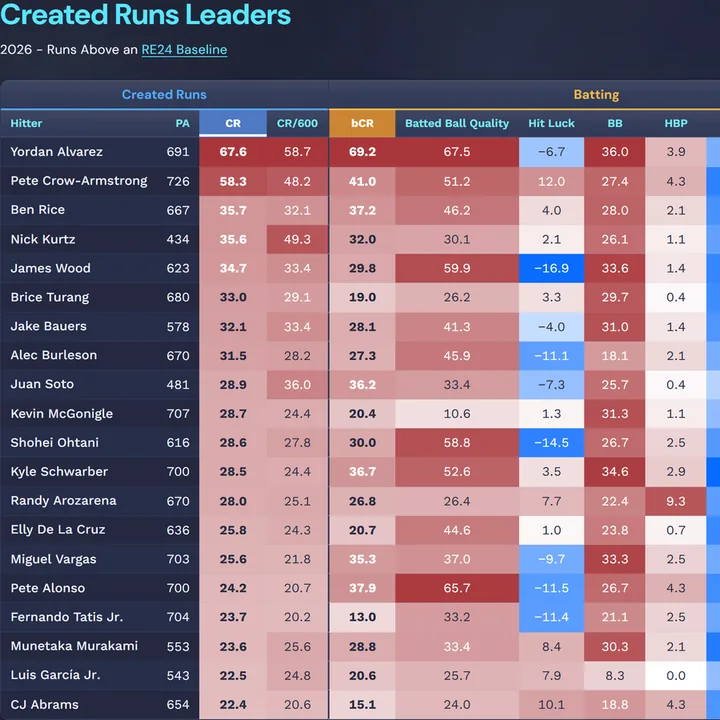
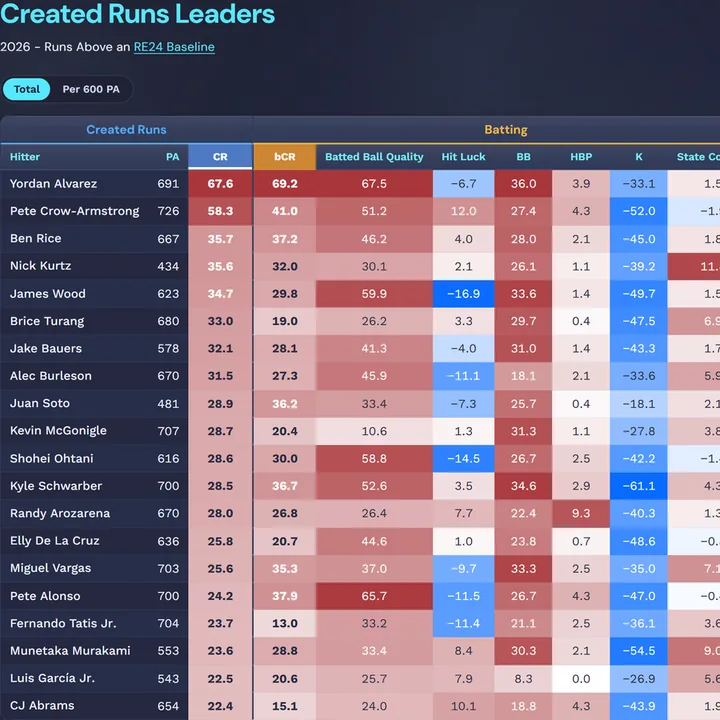
Created Runs: Total / Per 600 PA switch in place of the CR/600 column
Mirrors the leaderboard's version 16. CR/600 leaves data.json and the
table (Created Runs now spans Hitter, PA, CR); a segmented switch above
the table shows every stat after PA as a season total or per 600 PA,
with each view's heat scale computed in the page over all its hitters,
so data.json no longer carries one. The sort carries over a switch, and
the caption says "per 600 PA". Glossary: CR/600 out, the switch
explained. The meta description's "state change" is now "batted ball
quality". data.json?v=3, app.js?v=4, tile ?v=5.

diff --git a/created-runs/index.html b/created-runs/index.html
@@ -5,7 +5,7 @@
 <meta name="viewport" content="width=device-width,initial-scale=1,viewport-fit=cover">
 <meta name="color-scheme" content="dark">
 <title>Created Runs Leaders</title>
-<meta name="description" content="2026 hitters ranked by created runs above an RE24 baseline, at the plate and on the bases: state change on balls in play, hit luck, walks, hit-by-pitches and strikeouts; home-to-first, baserunning, steals, caught stealing and pickoffs.">
+<meta name="description" content="2026 hitters ranked by created runs above an RE24 baseline, at the plate and on the bases: batted ball quality, hit luck, walks, hit-by-pitches and strikeouts; home-to-first, baserunning, steals, caught stealing and pickoffs.">
 <link rel="preconnect" href="https://fonts.googleapis.com">
 <link rel="preconnect" href="https://fonts.gstatic.com" crossorigin>
 <link rel="stylesheet" href="https://fonts.googleapis.com/css2?family=DM+Sans:opsz,wght@9..40,400;9..40,500;9..40,600;9..40,700;9..40,900&family=Work+Sans:wght@400;500;600;700&display=swap">
@@ -34,6 +34,15 @@
   display:flex; flex-direction:column; gap:28px}
 @media (min-width:720px){.page{padding-left:max(24px, env(safe-area-inset-left, 0px)); padding-right:max(24px, env(safe-area-inset-right, 0px))}}
 .plpd-page-header__title{text-wrap:balance}
+
+/* the Total / Per 600 PA switch: a segmented pill, the pressed side filled brand-cyan */
+.toolbar{display:flex; margin-bottom:-12px}
+.seg{display:inline-flex; gap:2px; padding:3px; border-radius:999px; border:1px solid var(--dt-wrap-border); background:var(--dt-scroll-bg)}
+.seg button{all:unset; box-sizing:border-box; cursor:pointer; padding:6px 14px; border-radius:999px;
+  font-family:var(--font-text); font-size:14px; font-weight:600; line-height:1.2; color:#cbd7fd}
+.seg button:hover{color:#f0f1f5}
+.seg button[aria-pressed="true"]{background:#55e8ff; color:#13152a}
+.seg button:focus-visible{outline:2px solid #55e8ff; outline-offset:2px}
 
 /* PlDataTableWrap (raised): scrolls both ways; its height is set in script to the header plus 20 rows */
 .table-wrap{box-sizing:border-box; max-width:100%; overflow:auto; overscroll-behavior:contain;
@@ -115,12 +124,14 @@
     <p class="plpd-page-header__meta"><span class="season">2026</span> - Runs Above an <a href="https://library.fangraphs.com/misc/re24/" target="_blank" rel="noopener">RE24 Baseline</a></p>
   </header>
 
+  <div class="toolbar"><div class="seg" id="mode" role="group" aria-label="Show values as"><button type="button" data-mode="total" aria-pressed="true">Total</button><button type="button" data-mode="per600" aria-pressed="false">Per 600 PA</button></div></div>
+
   <div class="table-wrap" id="wrap" role="region" aria-label="Hitters, sortable by any stat" tabindex="0">
     <table>
       <caption id="caption">Hitters ranked by CR, 2026</caption>
       <thead>
         <tr>
-          <th class="group g-created" colspan="4" scope="colgroup">Created Runs</th>
+          <th class="group g-created" colspan="3" scope="colgroup">Created Runs</th>
           <th class="group g-batting div" colspan="7" scope="colgroup">Batting</th>
           <th class="group g-running div" colspan="6" scope="colgroup">Running</th>
         </tr>
@@ -133,13 +144,12 @@
 
   <section class="glossary" aria-labelledby="gl-title">
     <h2 id="gl-title">Reading the table</h2>
-    <p>Every number is created runs above an RE24 baseline built from the <span class="season">2026</span> season. The table covers the <span id="gl-count">205</span> hitters with at least <span class="min-pa">400</span> PA. Pick any column heading to rank them by it, highest first; pick it again for lowest first. It shows 20 hitters at a time, so scroll it for the rest. Values shade from white at zero toward red at the highest value among these hitters and blue at the lowest.</p>
+    <p>Every number is created runs above an RE24 baseline built from the <span class="season">2026</span> season. The table covers the <span id="gl-count">205</span> hitters with at least <span class="min-pa">400</span> PA. Pick any column heading to rank them by it, highest first; pick it again for lowest first. It shows 20 hitters at a time, so scroll it for the rest. The Total / Per 600 PA switch above the table shows every column after PA as a season total or scaled to 600 plate appearances. Values shade from white at zero toward red at the highest value among these hitters and blue at the lowest.</p>
     <div class="gl-groups">
       <div class="gl-group g-created">
         <h3>Created Runs</h3>
         <dl>
           <div><dt>CR</dt><dd>Total created runs, batting plus running.</dd></div>
-          <div><dt>CR/600</dt><dd>CR scaled to 600 plate appearances.</dd></div>
         </dl>
       </div>
       <div class="gl-group g-batting">
@@ -166,6 +176,6 @@
     </div>
   </section>
 </div>
-<script type="module" src="app.js?v=3"></script>
+<script type="module" src="app.js?v=4"></script>
 </body>
 </html>

diff --git a/created-runs/app.js b/created-runs/app.js
@@ -8,7 +8,6 @@ const VISIBLE_ROWS = 20; // the table is this many rows tall and scrolls for the
 const COLS = [
   { key: "pa", label: "PA", group: "created", heat: false, digits: 0 },
   { key: "cr", label: "CR", group: "created", hl: true },
-  { key: "cr600", label: "CR/600", group: "created" },
   { key: "bcr", label: "bCR", group: "batting", hl: true, divider: true },
   { key: "state", label: "Batted Ball Quality", group: "batting" },
   { key: "luck", label: "Hit Luck", group: "batting" },
@@ -56,11 +55,15 @@ const fmt = (v, digits = 1) => {
 const escape = (s) => s.replace(/[&<>"]/g, (c) => ({ "&": "&amp;", "<": "&lt;", ">": "&gt;", '"': "&quot;" })[c]);
 
 let DATA = null, PLAYERS = [];
+// the heat columns, every stat after PA; the Per 600 PA view scales each by 600/PA (PA stays a count)
+const STATS = COLS.filter((c) => c.heat !== false).map((c) => c.key);
+let VIEWS = {}, SCALES = {}; // each view's rows, and each view's {min, max} per stat over all its hitters
+let mode = "total";
 // Every column ranks highest first on its first pick; a second pick ranks lowest first.
 let sort = { key: "cr", dir: "desc" };
 
 function ranked() {
-  const pool = PLAYERS.filter((p) => p[sort.key] !== null);
+  const pool = VIEWS[mode].filter((p) => p[sort.key] !== null);
   const sign = sort.dir === "desc" ? -1 : 1;
   pool.sort((a, b) => sign * (a[sort.key] - b[sort.key]) || b.cr - a.cr || a.name.localeCompare(b.name));
   return pool;
@@ -84,7 +87,7 @@ function renderRows() {
       if (c.heat === false) return `<td class="plain">${fmt(r[c.key], c.digits)}</td>`;
       const cls = ["heat", c.hl ? "hl" : "", c.divider ? "div" : ""].join(" ").trim();
       if (r[c.key] === null) return `<td class="${cls} plain">${fmt(null)}</td>`;
-      const rgb = heat(r[c.key], DATA.scale[c.key]);
+      const rgb = heat(r[c.key], SCALES[mode][c.key]);
       return `<td class="${cls}" style="background:rgb(${rgb});color:${textOn(rgb)}">${fmt(r[c.key])}</td>`;
     }).join("");
     return `<tr><td class="name sticky">${escape(r.name)}</td>${cells}</tr>`;
@@ -96,7 +99,8 @@ function renderRows() {
 function renderCaption(count) {
   const col = COLS.find((c) => c.key === sort.key);
   const order = sort.dir === "desc" ? "highest first" : "lowest first";
-  $("caption").textContent = `${count} hitters with ${DATA.minPa}+ PA ranked by ${col.spoken || col.label}, ${order}, ${DATA.season}`;
+  const per = mode === "per600" && col.key !== "pa" ? " per 600 PA" : "";
+  $("caption").textContent = `${count} hitters with ${DATA.minPa}+ PA ranked by ${col.spoken || col.label}${per}, ${order}, ${DATA.season}`;
 }
 
 // Size the scroll box to the two header rows plus VISIBLE_ROWS body rows, measured, so it holds
@@ -127,9 +131,19 @@ $("col-head").addEventListener("click", (e) => {
   document.querySelector(`#col-head button[data-key="${key}"]`).focus({ preventScroll: true });
 });
 
+// Total / Per 600 PA: the sort column and direction carry over
+$("mode").addEventListener("click", (e) => {
+  const button = e.target.closest("button[data-mode]");
+  if (!button || !DATA) return;
+  mode = button.dataset.mode;
+  $("mode").querySelectorAll("button").forEach((b) => b.setAttribute("aria-pressed", String(b === button)));
+  render();
+  $("wrap").scrollTop = 0;
+});
+
 async function boot() {
   try {
-    const r = await fetch("data.json?v=2");
+    const r = await fetch("data.json?v=3");
     if (!r.ok) throw new Error(`data ${r.status}`);
     DATA = await r.json();
   } catch (e) {
@@ -139,6 +153,16 @@ async function boot() {
   }
   // rows arrive as arrays in DATA.keys order; turn them into objects once
   PLAYERS = DATA.rows.map((row) => Object.fromEntries(DATA.keys.map((k, i) => [k, row[i]])));
+  VIEWS = {
+    total: PLAYERS,
+    per600: PLAYERS.map((p) => ({ ...p, ...Object.fromEntries(STATS.map((k) => [k, p[k] === null ? null : p[k] * 600 / p.pa])) })),
+  };
+  for (const [m, rows] of Object.entries(VIEWS)) {
+    SCALES[m] = Object.fromEntries(STATS.map((k) => {
+      const vals = rows.map((p) => p[k]).filter((v) => v !== null);
+      return [k, { min: Math.min(...vals), max: Math.max(...vals) }];
+    }));
+  }
   document.querySelectorAll(".season").forEach((el) => (el.textContent = DATA.season));
   document.querySelectorAll(".min-pa").forEach((el) => (el.textContent = DATA.minPa));
   $("gl-count").textContent = DATA.players;

diff --git a/index.html b/index.html
@@ -202,7 +202,7 @@
 								</article>
 									<article class="style3">
 									<span class="image">
-										<img src="images/tile-created-runs.webp?v=4" srcset="images/tile-created-runs-720.webp?v=5 720w, images/tile-created-runs.webp?v=4 900w" sizes="(max-width: 480px) 100vw, (max-width: 980px) 50vw, 380px" width="900" height="900" alt="2026 Created Runs leaders: Yordan Alvarez first at 67.6 runs above an RE24 baseline" />
+										<img src="images/tile-created-runs.webp?v=5" srcset="images/tile-created-runs-720.webp?v=5 720w, images/tile-created-runs.webp?v=5 900w" sizes="(max-width: 480px) 100vw, (max-width: 980px) 50vw, 380px" width="900" height="900" alt="2026 Created Runs leaders: Yordan Alvarez first at 67.6 runs above an RE24 baseline" />
 									</span>
 									<a href="/created-runs/">
 										<h2>Created Runs</h2>

diff --git a/tools/created_runs/build_data.py b/tools/created_runs/build_data.py
@@ -6,7 +6,7 @@ The CSV is the Total Offensive Value project's (claude_sessions/website/created-
 hitter, every column runs above an RE24 baseline. The page shows hitters with MIN_PA or more, as
 the page's columns:
 
-    CR      off_val           CR/600  off_val per 600 PA
+    CR      off_val
     bCR     batting           Batted Ball Quality  contact    Hit Luck  hit_luck
     BB      walk              HBP     hit_by_pitch       K         strikeout
     State Context  state_context (batting)
@@ -14,8 +14,8 @@ the page's columns:
     SB      stolen_base       CS+PO   caught_stealing + pickoff
     State Context  running_context (running)
 
-with each column's lowest and highest value among them (the heat cells' ends). After a rebuild,
-bump data.json?v= in created-runs/app.js and app.js?v= in created-runs/index.html.
+as season totals; the page scales them to 600 PA and finds each column's heat-cell ends itself.
+After a rebuild, bump data.json?v= in created-runs/app.js and app.js?v= in created-runs/index.html.
 """
 import csv
 import json
@@ -24,14 +24,14 @@ from pathlib import Path
 
 MIN_PA = 400
 OUT = Path(__file__).resolve().parents[2] / "created-runs" / "data.json"
-KEYS = ["name", "pa", "cr", "cr600", "bcr", "state", "luck", "bb", "hbp", "k",
+KEYS = ["name", "pa", "cr", "bcr", "state", "luck", "bb", "hbp", "k",
         "ctx", "rcr", "h2f", "bsr", "sb", "cspo", "rctx"]
 
 
 def row_of(r):
     pa = int(r["PA"])
     f = lambda k: float(r[k])
-    return [r["player_name"], pa, f("off_val"), round(f("off_val") * 600 / pa, 2), f("batting"),
+    return [r["player_name"], pa, f("off_val"), f("batting"),
             f("contact"), f("hit_luck"), f("walk"), f("hit_by_pitch"), f("strikeout"), f("state_context"),
             f("running"),
             f("home_to_first"), f("baserunning"), f("stolen_base"),
@@ -45,10 +45,8 @@ def main(path):
     if len(seasons) != 1:
         sys.exit(f"expected one season in {path}, found {sorted(seasons)}")
     rows = sorted((row_of(r) for r in src if int(r["PA"]) >= MIN_PA), key=lambda x: (-x[2], x[0]))
-    scale = {k: {"min": min(x[i] for x in rows), "max": max(x[i] for x in rows)}
-             for i, k in enumerate(KEYS) if k not in ("name", "pa")}
     data = {"season": int(seasons.pop()), "minPa": MIN_PA, "players": len(rows),
-            "keys": KEYS, "rows": rows, "scale": scale}
+            "keys": KEYS, "rows": rows}
     OUT.write_text(json.dumps(data, ensure_ascii=False, separators=(",", ":")), encoding="utf-8")
     print(f"{OUT}: {len(rows)} hitters with {MIN_PA}+ PA, {data['season']}")
 
